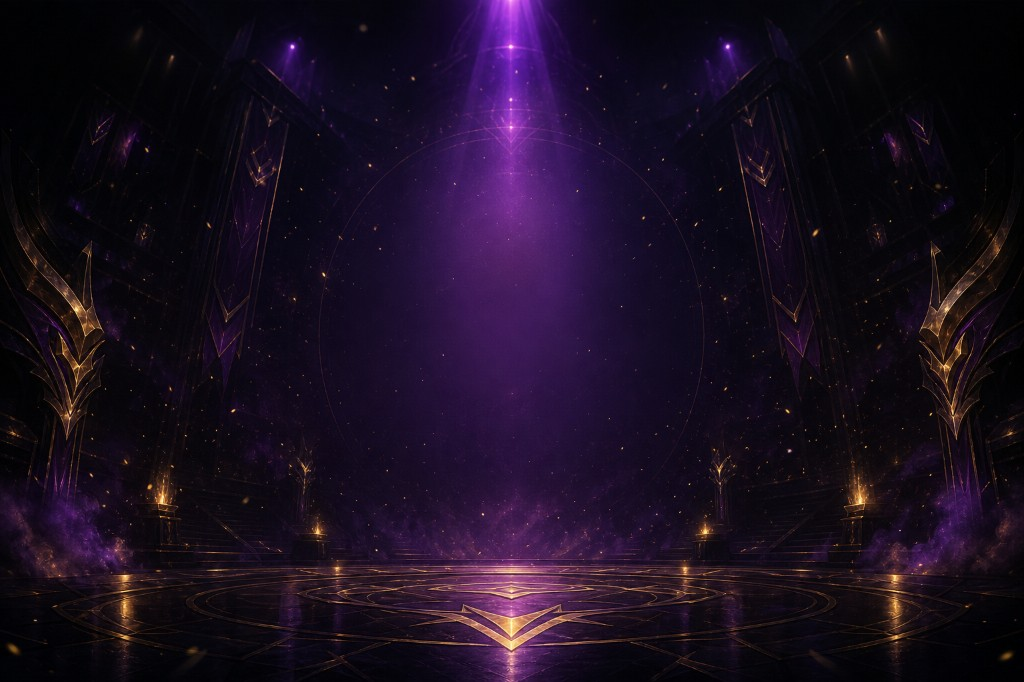
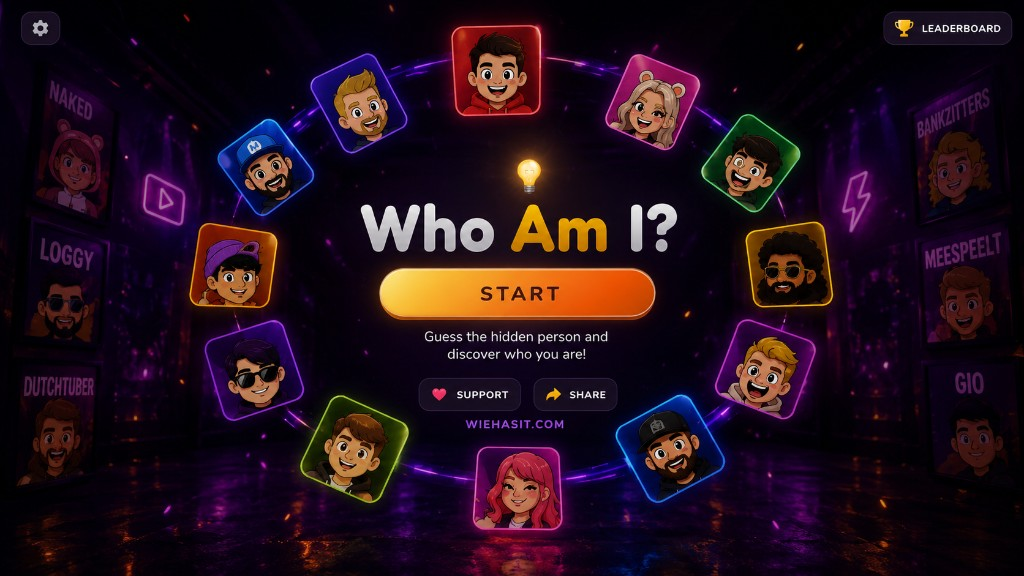
Use new neon arena image as start screen background.

diff --git a/index.html b/index.html
@@ -18,7 +18,7 @@
   <link rel="preconnect" href="https://fonts.googleapis.com" />
   <link rel="preconnect" href="https://fonts.gstatic.com" crossorigin />
   <link href="https://fonts.googleapis.com/css2?family=Fredoka:wght@600;700&family=Nunito:wght@600;700;800&family=Outfit:wght@600;700;800&display=swap" rel="stylesheet" />
-  <link rel="stylesheet" href="assets/game/start-screen.css?v=54" />
+  <link rel="stylesheet" href="assets/game/start-screen.css?v=55" />
   <link rel="stylesheet" href="assets/game/mode-screen.css?v=8" />
   <link rel="stylesheet" href="assets/game/support-screen.css?v=1" />
   <link rel="stylesheet" href="assets/game/stripe-donate.css?v=1" />
@@ -1901,7 +1901,7 @@
 
   <!-- Scherm 1: beginscherm -->
   <main id="screen-start" class="screen screen-start">
-    <img class="start-bg-photo" src="assets/game/backgrounds/arena-start-bg.png?v=2" alt="" aria-hidden="true" decoding="async" fetchpriority="high" />
+    <img class="start-bg-photo" src="assets/game/backgrounds/arena-start-bg.png?v=3" alt="" aria-hidden="true" decoding="async" fetchpriority="high" />
     <div class="start-overlay" aria-hidden="true"></div>
     <button id="btn-music-toggle" class="btn-music-toggle" type="button" aria-pressed="false" data-i18n-aria="musicAria" aria-label="Muziek aan/uit">🔊</button>
 
@@ -1949,7 +1949,7 @@
 
   <!-- Naam kiezen (na START) -->
   <main id="screen-name" class="screen screen-mode-view screen-name-view hidden">
-    <img class="mode-bg-photo" src="assets/game/backgrounds/arena-start-bg.png?v=2" alt="" aria-hidden="true" decoding="async" />
+    <img class="mode-bg-photo" src="assets/game/backgrounds/arena-start-bg.png?v=3" alt="" aria-hidden="true" decoding="async" />
     <div class="mode-overlay" aria-hidden="true"></div>
     <section class="mode-panel content">
       <p class="mode-kicker" data-i18n="nameKicker">Stap 1</p>
@@ -1981,7 +1981,7 @@
 
   <!-- Keuzescherm: online of bot -->
   <main id="screen-mode" class="screen screen-mode-view hidden">
-    <img class="mode-bg-photo" src="assets/game/backgrounds/arena-start-bg.png?v=2" alt="" aria-hidden="true" decoding="async" />
+    <img class="mode-bg-photo" src="assets/game/backgrounds/arena-start-bg.png?v=3" alt="" aria-hidden="true" decoding="async" />
     <div class="mode-overlay" aria-hidden="true"></div>
     <section class="mode-panel content">
       <p class="mode-kicker" data-i18n="modeKicker">Kies je spel</p>
@@ -2018,7 +2018,7 @@
 
   <!-- Steun / Pro / deel -->
   <main id="screen-support" class="screen screen-mode-view screen-support-view hidden">
-    <img class="mode-bg-photo" src="assets/game/backgrounds/arena-start-bg.png?v=2" alt="" aria-hidden="true" decoding="async" />
+    <img class="mode-bg-photo" src="assets/game/backgrounds/arena-start-bg.png?v=3" alt="" aria-hidden="true" decoding="async" />
     <div class="mode-overlay" aria-hidden="true"></div>
     <section class="support-panel content">
       <p class="support-kicker" data-i18n="supportKicker">Steun het spel</p>
@@ -2046,7 +2046,7 @@
 
   <!-- Bot-moeilijkheid -->
   <main id="screen-bot-diff" class="screen screen-mode-view hidden">
-    <img class="mode-bg-photo" src="assets/game/backgrounds/arena-start-bg.png?v=2" alt="" aria-hidden="true" decoding="async" />
+    <img class="mode-bg-photo" src="assets/game/backgrounds/arena-start-bg.png?v=3" alt="" aria-hidden="true" decoding="async" />
     <div class="mode-overlay" aria-hidden="true"></div>
     <section class="mode-panel content">
       <p class="mode-kicker" data-i18n="botDiffKicker">Solo tegen de bot</p>
@@ -2148,7 +2148,7 @@
 
   <!-- Scherm 2: online menu (host / join) -->
   <main id="screen-menu" class="screen screen-menu screen-menu-view hidden">
-    <img class="mode-bg-photo" src="assets/game/backgrounds/arena-start-bg.png?v=2" alt="" aria-hidden="true" decoding="async" />
+    <img class="mode-bg-photo" src="assets/game/backgrounds/arena-start-bg.png?v=3" alt="" aria-hidden="true" decoding="async" />
     <div class="mode-overlay" aria-hidden="true"></div>
     <section class="mode-panel content menu-content">
       <p class="mode-kicker" data-i18n="menuKicker">Online met vrienden</p>

diff --git a/assets/game/start-screen.css b/assets/game/start-screen.css
@@ -23,9 +23,8 @@
   z-index: 1;
   pointer-events: none;
   background:
-    radial-gradient(ellipse 70% 55% at 50% 38%, rgba(124, 58, 237, 0.28) 0%, transparent 62%),
-    radial-gradient(ellipse 90% 40% at 50% 100%, rgba(88, 28, 135, 0.35) 0%, transparent 55%),
-    linear-gradient(180deg, rgba(8, 4, 18, 0.35) 0%, transparent 28%, rgba(8, 4, 18, 0.62) 100%);
+    radial-gradient(ellipse 55% 50% at 50% 42%, rgba(0, 0, 0, 0.12) 0%, transparent 68%),
+    linear-gradient(180deg, rgba(0, 0, 0, 0.2) 0%, transparent 22%, rgba(0, 0, 0, 0.28) 100%);
 }
 
 html.start-screen-active,
@@ -82,11 +81,10 @@ html.start-screen-active body {
   width: calc(var(--orbit-r) * 2 + 72px);
   height: calc(var(--orbit-r) * 2 + 72px);
   border-radius: 50%;
-  border: 2px solid rgba(251, 191, 36, 0.28);
-  box-shadow:
-    0 0 48px rgba(124, 58, 237, 0.35),
-    inset 0 0 30px rgba(124, 58, 237, 0.12);
+  border: 2px solid rgba(168, 85, 247, 0.35);
+  box-shadow: 0 0 36px rgba(168, 85, 247, 0.4);
   pointer-events: none;
+  opacity: 0.55;
 }
 
 .screen-start .start-char-orbit {